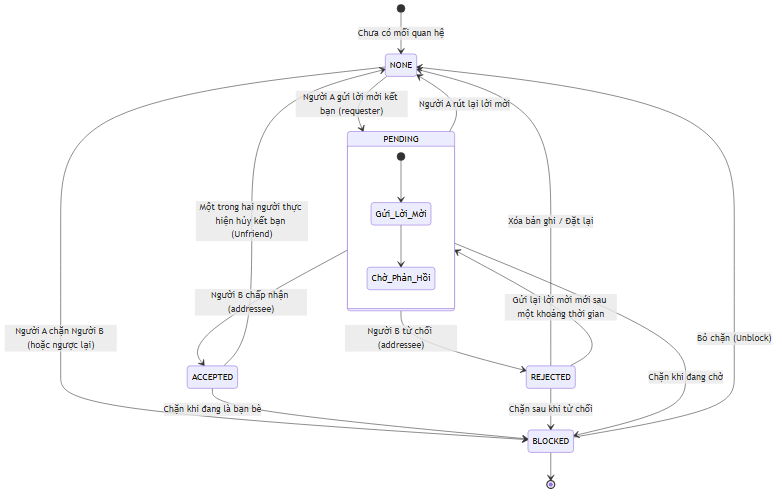
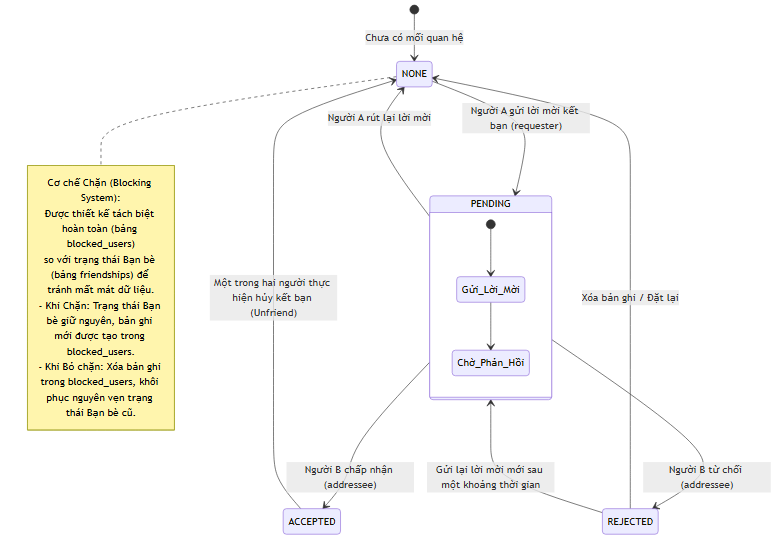
docs: resolve system architecture issues and fix diagram paths

diff --git a/docs/SYSTEM_ARCHITECTURE.md b/docs/SYSTEM_ARCHITECTURE.md
@@ -2,61 +2,61 @@
 
 Tài liệu này trực quan hóa cấu trúc kiến trúc, các luồng nghiệp vụ cốt lõi, trạng thái dữ liệu và mô hình thời gian thực của hệ thống **Spring Chat**. Tất cả sơ đồ được vẽ trực quan dạng ảnh PNG và mã nguồn Mermaid.js kèm theo.
 
-> 📁 **Thư mục tài nguyên sơ đồ:** [docs/diagrams](file:///C:/Users/quanc/Documents/Spring_Boot/Spring_chat/docs/diagrams)
+> 📁 **Thư mục tài nguyên sơ đồ:** [docs/diagrams](./diagrams)
 
 ---
 
 ## 1. Kiến trúc Hệ thống Tổng quan (High-Level System Architecture)
-🔗 *Xem file mã nguồn Mermaid:* [high_level_architecture.mmd](file:///C:/Users/quanc/Documents/Spring_Boot/Spring_chat/docs/diagrams/high_level_architecture.mmd)
+🔗 *Xem file mã nguồn Mermaid:* [high_level_architecture.mmd](./diagrams/high_level_architecture.mmd)
 
 Hệ thống hiện tại được thiết kế theo mô hình **Stateless Monolith**, sử dụng Spring Boot làm backend chính kết hợp PostgreSQL để lưu trữ dữ liệu bền vững.
 
-![Kiến trúc Hệ thống Tổng quan](file:///C:/Users/quanc/Documents/Spring_Boot/Spring_chat/docs/diagrams/high_level_architecture.png)
+![Kiến trúc Hệ thống Tổng quan](./diagrams/high_level_architecture.png)
 
 ---
 
 ## 2. Luồng Xác thực & Quay vòng Token (Auth & Token Rotation Flow)
-🔗 *Xem file mã nguồn Mermaid:* [auth_token_rotation.mmd](file:///C:/Users/quanc/Documents/Spring_Boot/Spring_chat/docs/diagrams/auth_token_rotation.mmd)
+🔗 *Xem file mã nguồn Mermaid:* [auth_token_rotation.mmd](./diagrams/auth_token_rotation.mmd)
 
 Hệ thống sử dụng cơ chế **Refresh Token Rotation (RTR)** để tăng tính bảo mật cho kiến trúc stateless, chống lại các cuộc tấn công phát lại (Replay Attacks).
 
-![Luồng Xác thực & Quay vòng Token](file:///C:/Users/quanc/Documents/Spring_Boot/Spring_chat/docs/diagrams/auth_token_rotation.png)
+![Luồng Xác thực & Quay vòng Token](./diagrams/auth_token_rotation.png)
 
 ---
 
 ## 3. Luồng Kết nối & Đăng ký WebSocket STOMP (WebSocket Connection & Subscription)
-🔗 *Xem file mã nguồn Mermaid:* [websocket_stomp_flow.mmd](file:///C:/Users/quanc/Documents/Spring_Boot/Spring_chat/docs/diagrams/websocket_stomp_flow.mmd)
+🔗 *Xem file mã nguồn Mermaid:* [websocket_stomp_flow.mmd](./diagrams/websocket_stomp_flow.mmd)
 
 Do các trình duyệt không hỗ trợ gửi Custom Headers trong quá trình HTTP Handshake, hệ thống sử dụng **Query Parameter** để xác thực WebSocket.
 
-![Luồng Kết nối & Đăng ký WebSocket STOMP](file:///C:/Users/quanc/Documents/Spring_Boot/Spring_chat/docs/diagrams/websocket_stomp_flow.png)
+![Luồng Kết nối & Đăng ký WebSocket STOMP](./diagrams/websocket_stomp_flow.png)
 
 ---
 
 ## 4. Luồng gửi Tin nhắn thời gian thực (Real-time Messaging Pipeline)
-🔗 *Xem file mã nguồn Mermaid:* [realtime_messaging_pipeline.mmd](file:///C:/Users/quanc/Documents/Spring_Boot/Spring_chat/docs/diagrams/realtime_messaging_pipeline.mmd)
+🔗 *Xem file mã nguồn Mermaid:* [realtime_messaging_pipeline.mmd](./diagrams/realtime_messaging_pipeline.mmd)
 
 Đây là luồng nghiệp vụ quan trọng nhất, đảm bảo tính **toàn vẹn dữ liệu** (chống mất tin) và **ngăn ngừa gửi trùng lặp** (Idempotency) qua DB Transaction Commit Hook.
 
-![Luồng gửi Tin nhắn thời gian thực](file:///C:/Users/quanc/Documents/Spring_Boot/Spring_chat/docs/diagrams/realtime_messaging_pipeline.png)
+![Luồng gửi Tin nhắn thời gian thực](./diagrams/realtime_messaging_pipeline.png)
 
 ---
 
 ## 5. Luồng Trạng thái Bạn bè (Friendship State Machine Flow)
-🔗 *Xem file mã nguồn Mermaid:* [friendship_state_machine.mmd](file:///C:/Users/quanc/Documents/Spring_Boot/Spring_chat/docs/diagrams/friendship_state_machine.mmd)
+🔗 *Xem file mã nguồn Mermaid:* [friendship_state_machine.mmd](./diagrams/friendship_state_machine.mmd)
 
 Quản lý mối quan hệ giữa hai người dùng trong hệ thống với các ràng buộc về quyền riêng tư và khả năng chặn tin nhắn.
 
-![Luồng Trạng thái Bạn bè](file:///C:/Users/quanc/Documents/Spring_Boot/Spring_chat/docs/diagrams/friendship_state_machine.png)
+![Luồng Trạng thái Bạn bè](./diagrams/friendship_state_machine.png)
 
 ---
 
 ## 6. Sơ đồ Thực thể Cơ sở dữ liệu (Database Entity Relationship Diagram)
-🔗 *Xem file mã nguồn Mermaid:* [database_erd.mmd](file:///C:/Users/quanc/Documents/Spring_Boot/Spring_chat/docs/diagrams/database_erd.mmd)
+🔗 *Xem file mã nguồn Mermaid:* [database_erd.mmd](./diagrams/database_erd.mmd)
 
 Bản vẽ thiết kế thực thể trong PostgreSQL, hiển thị các khóa ngoại và các ràng buộc dữ liệu chính nhằm tối ưu hóa việc truy vấn tin nhắn và tính toán tin nhắn chưa đọc (`unreadCount`).
 
-![Sơ đồ Thực thể Cơ sở dữ liệu](file:///C:/Users/quanc/Documents/Spring_Boot/Spring_chat/docs/diagrams/database_erd.png)
+![Sơ đồ Thực thể Cơ sở dữ liệu](./diagrams/database_erd.png)
 
 ---
 
